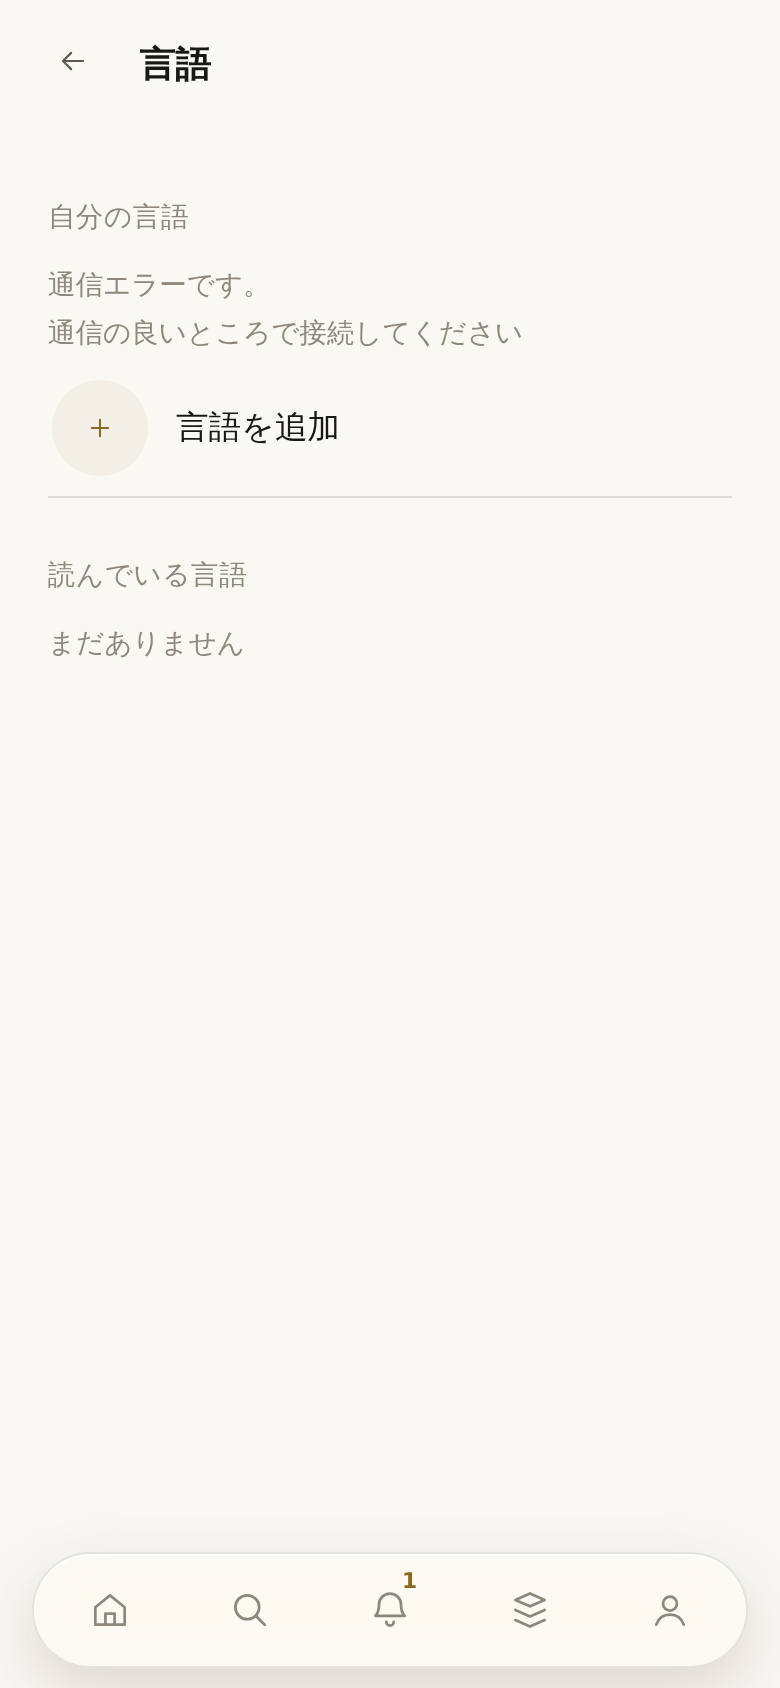
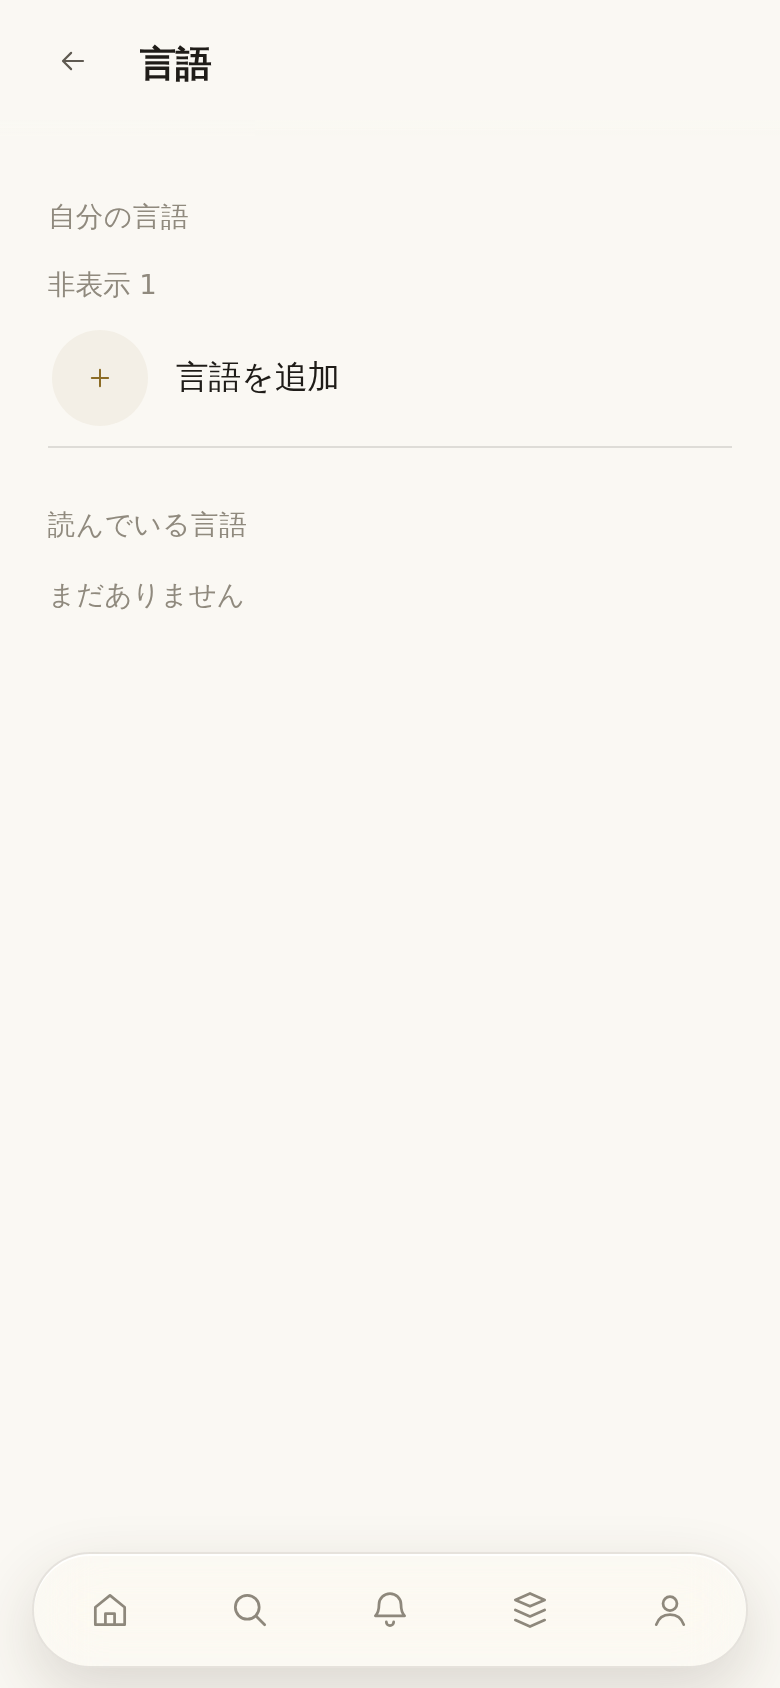
画面ごとに空と届かなかったを分ける形を、残さず消す
ポップができたので要らない。「そもそも通信エラーならそこにはいけないはず
でしょ」── 行けない画面に置く文は無い。「歴史とかいいから消せよ」。

消えたもの: netNoneHTML() と NET_HEARD（www/net.js）、それを訊いていた
六箇所（辞書、単語をつなぐ相手の一覧、文字、鍵に載せる文字、メモ、言語の
一覧の自分の言語）、10 言語の net.none、again-check の四つの主張。
78981a78 で検査を <br> に合わせた分も、その主張ごと。

NET_HEARD も消した。読む人が netLangsDown() の足だけで、そこで使われて
いたのは「答えが来た瞬間に描き直す」ため ── 描き直しが要ったのは通信の
一文が立っていたから。その一文が無いので、残せば片端の外れた配線になる。
docs/CHANGELOG.md の「NET_HEARD は残ります」を直した。

保存されるものは何も変わらない。

スクショ: shots/gone-words-offline-none-ja.png、
shots/gone-langs-offline-none-ja.png ── 写しの無い iPhone が電波の
無いところで開いた辞書と言語の一覧。今朝の同じファイル（通信の一文が
出ていた）と入れ替えてある。

確かめたこと: again 緑（主張は四つ減った）、es5 / dead 緑、
コミット時に i18n 10言語。端末では確かめていない。

Claude-Session: https://claude.ai/code/session_01AbvgKnUkQ6t4hydXhZ722y

diff --git a/www/net.js b/www/net.js
@@ -1398,57 +1398,6 @@ function nidFor(row, here){
   LANGS[id].name=String(row.name||'');
   return id;
 }
-/* ---- 空と、届かなかったのは、別のこと -----------------------------------
-   「おかしくね？電波ない時は単語はまだありませんにはならなくね？
-     通信エラーです通信の良いところで接続してください見たいにしないと消えたと
-     思われるやろ、、、、」
-   「消えたのとエラーは別のことでただの分岐だからね？
-     消えたと思われるのはまずい。
-     TLはくるくるさせとけばどうにかなるけど」 OWNER 2026-09-05.
-
-   The slices are in memory (rule 22), so an app that has been closed holds
-   nothing until the server answers. A phone that kept a picture of the last
-   answer draws that (slGot in www/core.js). A phone with NO picture -- one
-   just out of the box, one that has never opened this language, one whose
-   storage was reclaimed -- draws nothing, and every screen with nothing on it
-   said 「単語がまだありません」. That is 「空」 and 「届かなかった」 sharing one
-   branch, which is the first page of CLAUDE.md, and what a person reads there
-   is that their own work is gone.
-
-   ONE BRANCH IN ONE PLACE, AND THE SCREENS ASK IT. Not a condition grown on
-   each screen: 「コードも継ぎ足し継ぎ足しして蛸足にするのもやめてね？」
-
-     NET_HEARD       the server has said what this account's languages are,
-                     this run of the app. False before it answers and false
-                     after a failure -- both of those are 「まだ聞けていない」
-                     and neither is 「この人は何も作っていない」.
-     netNoneHTML(h)  what a screen with nothing on it shows: its own 「まだ
-                     ありません」 when the server has answered, and the one
-                     sentence about the signal when it has not.
-
-   The timeline is not this and does not become this: it is other people's, an
-   empty one is not read as 「消えた」, and the mark that turns is already what
-   it does 「TLはくるくるさせとけばどうにかなるけど」.
-
-   It is set in ONE place -- the foot of netLangsDown() below, which is the
-   launch's own road to the server and the only thing that hears the whole
-   answer. Nothing else writes it, so nothing else can make a screen say the
-   server was reached. */
-var NET_HEARD=false;
-/* THE BREAK IS PART OF THE WORDING, NOT THE WIDTH.
-   「普通に／い／だけ下に行く気持ち悪さ理解できないの？／エラーです。／電波／
-     みたいに二行にしてくれ。」 OWNER 2026-09-05.
-
-   Flowed as one sentence, 390px put 「い」 on a line of its own. The sentence
-   is two -- what happened, and what to do -- so it is cut where it is written
-   rather than where the box ends, and the <br> travels with the translation
-   the way CLAUDE.md rule 2 says markup does. It is markup, so it is put in as
-   markup; esc() is what turned it into the letters b and r on the screen. The
-   ten strings are this repo's own and are the only thing that reaches here. */
-function netNoneHTML(html){
-  if(NET_HEARD) return html;
-  return '<div class="note">'+t('net.none')+'</div>';
-}
 function netLangsDown(then){
   var done=then || function(){}, here={}, filled=false, id;
   if(!netSignedIn()){ done(0); return; }
@@ -1459,7 +1408,7 @@ function netLangsDown(then){
     function(rows){
       var i=0, made=0, lost=false;
       function step(){
-        var row, nid, heard;
+        var row, nid;
         if(i>=(rows||[]).length){
           if(made) langStore();
           /* The OPEN language's slices came down, so what the screens are
@@ -1476,9 +1425,7 @@ function netLangsDown(then){
              filled -- so without this the sentence about the signal would be
              left standing on a screen that has just been told there is simply
              nothing there. */
-          heard=(!lost && !NET_HEARD);
-          if(!lost) NET_HEARD=true;
-          if(made || filled || heard) render();
+          if(made || filled) render();
           done(made); return;
         }
         row=rows[i]; i++;
@@ -1523,8 +1470,8 @@ function netLangsDown(then){
       }
       step();
     }, function(d, s, m){
-      /* 起動の道の二つ目で、人が気づくのはこちら ── NET_HEARD は偽のままで、
-         この人の言語は一本も来ていない。［再更新］はこの道をもう一度。 */
+      /* 起動の道の二つ目で、人が気づくのはこちら ── この人の言語は一本も
+         来ていない。［再更新］はこの道をもう一度。 */
       netPop(d, s, m, function(){ netLangsDown(then); });
       done(0);
     });

diff --git a/www/home.js b/www/home.js
@@ -2171,14 +2171,7 @@ function vLangs(){
   other += mine.length-mineSeen.length;
   var readHid = reading.length-readSeen.length;
   var body='<div class="sec">'+esc(t('langs.mine'))+'</div>'+
-    /* AND A LIST WITH NOTHING ON IT IS NOT A PERSON WITH NO LANGUAGES.
-       This section has never had a 「まだありません」 -- somebody standing here
-       has one -- so what it showed on a phone that has not heard from the
-       server was a heading and a +. netNoneHTML() (www/net.js) is the one
-       branch: nothing when the languages came down, the one sentence about
-       the signal when they did not. */
-    (mineSeen.length? mineSeen.map(function(id){ return langRow(id); }).join('')
-                    : netNoneHTML(''))+
+    mineSeen.map(function(id){ return langRow(id); }).join('')+
     /* AND HOW MANY ARE NOT ON IT, every time.
        `docs/DATA_SAFETY.md` § a shorter list is not a deletion: somebody
        opening this to find a language gone has no way to tell which of the
@@ -2191,9 +2184,6 @@ function vLangs(){
     /* .empty is the full-screen one: 54px of padding and a serif heading,
        which is right for a screen with nothing on it and far too loud for a
        section of a screen that has something on it. */
-    /* 「読んでいる言語」は他人のもので、空でも「自分のものが消えた」とは読ま
-       れない -- TL と同じ側。netNoneHTML() はここには要らず、置けば一つの画面で
-       同じ文が二度立つ。 */
     (readSeen.length? readSeen.map(function(id){ return langRow(id); }).join('')
                     : '<div class="note">'+esc(t('langs.none'))+'</div>')+
     (readHid? '<div class="note">'+esc(t('cap.hid', readHid))+'</div>' : '');

diff --git a/www/words.js b/www/words.js
@@ -160,12 +160,7 @@ function wPosAt(k){
    of the word it came from. */
 function wordsBodyHTML(items){
   if(!items.length)
-    /* 「空」と「届かなかった」は別のこと -- netNoneHTML() in www/net.js is the
-       one branch and this screen only asks it. With a filter on, 「見つかり
-       ません」 is about the filter and is still a statement about a dictionary
-       that arrived; a dictionary that did not arrive has not been searched. */
-    return netNoneHTML(
-      emptyBox((q||wFil!==POS_ALL)? t('words.nomatch') : t('words.empty')));
+    return emptyBox((q||wFil!==POS_ALL)? t('words.nomatch') : t('words.empty'));
   var out='', cur=null;
   items.forEach(function(w){
     var g=wGroupLab(w);

diff --git a/www/sound.js b/www/sound.js
@@ -852,8 +852,7 @@ function vLtset(){
        2026-09-01. can('snd') is the same door the sound chart behind a letter
        is already behind; nothing is deleted and paying brings the offer back. */
     var free=(pick && can('snd') && ltFil==='all' && !ltQ)? sndLoose() : [];
-    if(!list.length && !free.length)
-      return netNoneHTML('<div class="note">'+t('lt.none')+'</div>');
+    if(!list.length && !free.length) return '<div class="note">'+t('lt.none')+'</div>';
     return '<div class="ltgrid'+(ltWob? ' held':'')+'" id="'+gid+'" data-k="'+esc(k)+'">'+
       list.map(function(l){ return ltCell(l, ''); }).join('')+
       free.map(function(sym){ return sndCell(sym, ltWob && can('snd')); }).join('')+

diff --git a/www/notes.js b/www/notes.js
@@ -201,8 +201,8 @@ function vNotes(){
     '<div class="note" style="margin-bottom:12px">'+t('notes.note')+'</div>'+
     (found.length
       ? '<div class="ntlist">'+rows+'</div>'
-      : netNoneHTML('<div class="empty"><div class="eb">'+t('notes.empty.t')+'</div>'+
-        '<div class="es">'+t('notes.empty.s')+'</div></div>'))+
+      : '<div class="empty"><div class="eb">'+t('notes.empty.t')+'</div>'+
+        '<div class="es">'+t('notes.empty.s')+'</div></div>')+
     '</div>'+
     /* The round ＋ in the bottom right corner, which is where this app puts
        "make one" -- the timeline's post and the dictionary's word are both

diff --git a/www/i18n/ru.js b/www/i18n/ru.js
@@ -358,7 +358,6 @@ defLang('ru', (function(){
       "net.handle.taken" : "Этот ID уже занят.",
       "net.offline" : "Нет соединения.",
       "net.again" : "Переподключиться",
-      "net.none" : "Ошибка соединения.<br>Подключитесь там, где хороший сигнал.",
       "net.failed" : "Не получилось.",
       "net.badlogin" : "Неверный адрес или пароль.",
       "net.session" : "Войдите снова.",

diff --git a/www/keyboard.js b/www/keyboard.js
@@ -3882,7 +3882,7 @@ function kbLtGrid(ri, ki, dir){
      same kind of function behind. Both screens put them in #lt-list. */
   function cells(){
     var ls=ltPickList(ltOfKind('alpha'));
-    if(!ls.length) return netNoneHTML('<div class="note">'+t('lt.none')+'</div>');
+    if(!ls.length) return '<div class="note">'+t('lt.none')+'</div>';
     return '<div class="ltgrid">'+ls.map(function(l){
       return '<button class="ltc"'+kbLtOnCSS(ri, ki, dir, l.id) +
         DO('kbLtTap', [ri, ki, dir, l.id]) + ' aria-label="'+

diff --git a/www/i18n/ja.js b/www/i18n/ja.js
@@ -271,7 +271,6 @@ defLang('ja', (function(){
       "net.handle.taken" : "このIDは使われています",
       "net.offline" : "接続できません",
       "net.again" : "再接続",
-      "net.none" : "通信エラーです。<br>通信の良いところで接続してください",
       "net.failed" : "うまくいきませんでした",
       "net.badlogin" : "アドレスかパスワードが違います",
       "net.session" : "サインインし直してください",

diff --git a/www/i18n/ko.js b/www/i18n/ko.js
@@ -534,7 +534,6 @@ defLang('ko', (function(){
       "net.handle.taken" : "이미 사용 중인 ID입니다.",
       "net.offline" : "연결할 수 없습니다.",
       "net.again" : "다시 연결",
-      "net.none" : "통신 오류입니다.<br>신호가 좋은 곳에서 연결해 주세요.",
       "net.failed" : "되지 않았습니다.",
       "net.badlogin" : "주소나 비밀번호가 다릅니다.",
       "net.session" : "다시 로그인해 주세요.",

diff --git a/www/wordsheet.js b/www/wordsheet.js
@@ -451,7 +451,7 @@ function vRelate(){
             '<div class="mn">'+esc(wMns(x)[0]||t('words.addmn'))+'</div></button>'+
             '<span class="ltck">'+(has? ICON_TICK : '')+'</span></div>';
         }).join('')
-      : netNoneHTML('<div class="note">'+t('words.empty')+'</div>'))+
+      : '<div class="note">'+t('words.empty')+'</div>')+
     '</div></div>';
 }
 /* Made and joined in one press. A word typed here is spelled by the same

diff --git a/www/i18n/de.js b/www/i18n/de.js
@@ -343,7 +343,6 @@ defLang('de', (function(){
       "net.handle.taken" : "Diese ID ist vergeben.",
       "net.offline" : "Keine Verbindung.",
       "net.again" : "Neu verbinden",
-      "net.none" : "Verbindungsfehler.<br>Verbinde dich dort, wo das Signal gut ist.",
       "net.failed" : "Das hat nicht geklappt.",
       "net.badlogin" : "Adresse oder Passwort falsch.",
       "net.session" : "Bitte erneut anmelden.",

diff --git a/www/i18n/fr.js b/www/i18n/fr.js
@@ -403,7 +403,6 @@ defLang('fr', (function(){
       "net.handle.taken" : "Cet ID est déjà pris.",
       "net.offline" : "Pas de connexion.",
       "net.again" : "Reconnecter",
-      "net.none" : "Erreur de connexion.<br>Connectez-vous là où le signal est bon.",
       "net.failed" : "Cela n’a pas marché.",
       "net.badlogin" : "Adresse ou mot de passe incorrect.",
       "net.session" : "Reconnectez-vous.",
